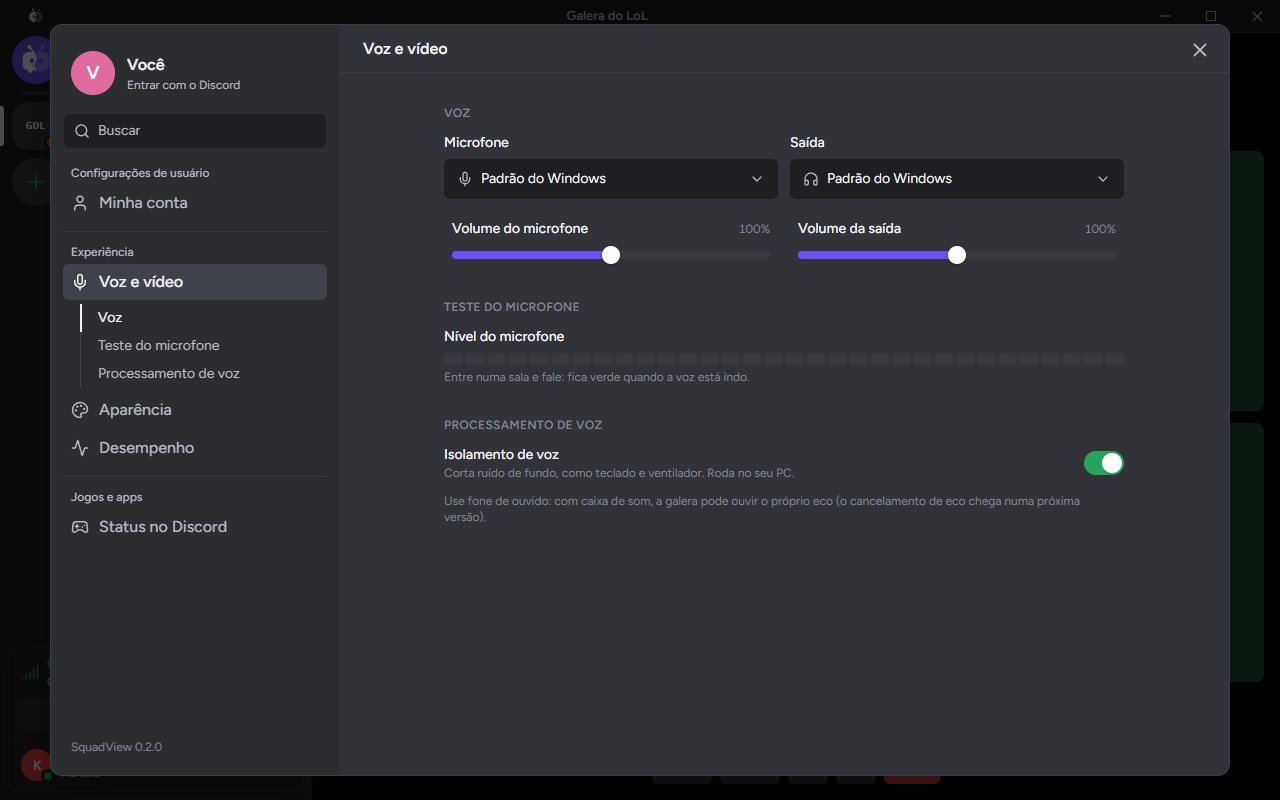
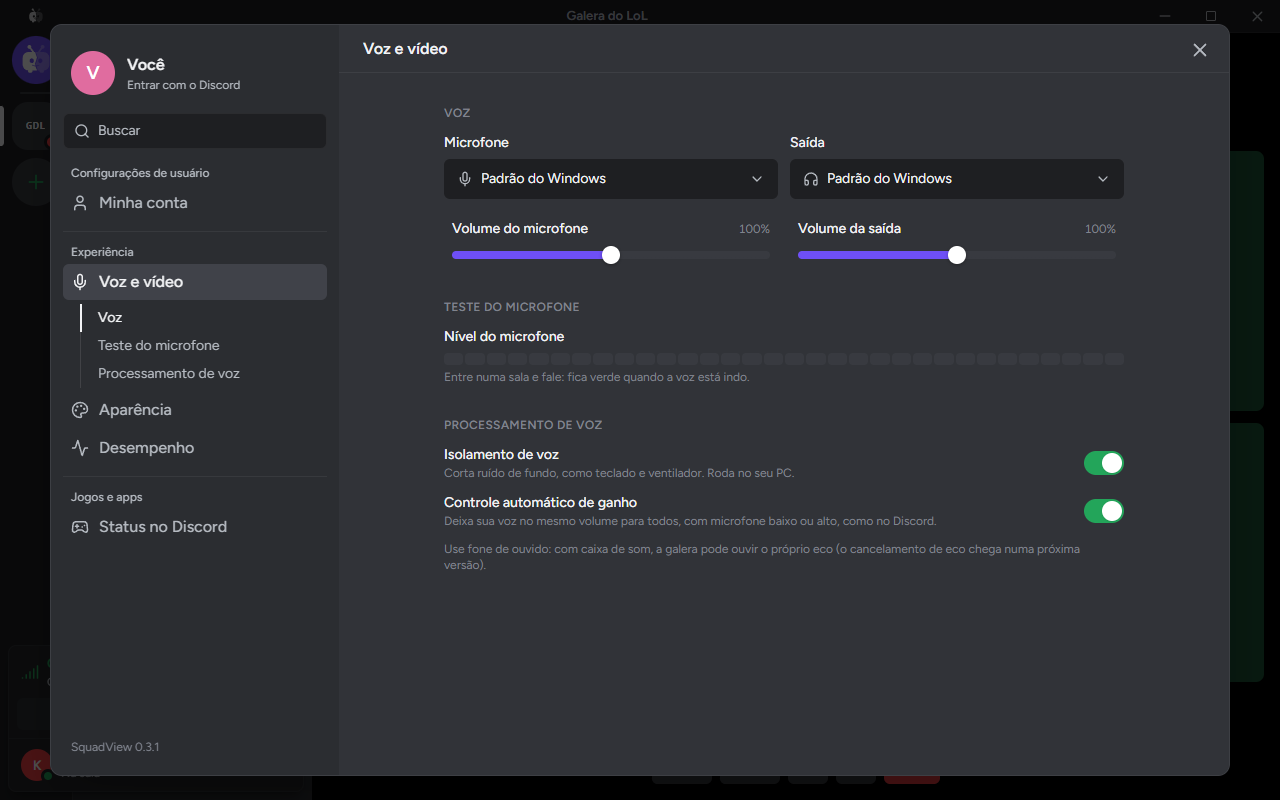
docs: README e site com a voz em foco, o ganho automático e a captura que segue o jogo (#19)

Changed region(s): [[0.3438, 0.625, 0.875, 0.6562], [0.3438, 0.6875, 0.375, 0.7188]]

diff --git a/site/index.html b/site/index.html
@@ -299,13 +299,18 @@
             </div>
             <div class="card">
               <div class="icon">🔊</div>
-              <h3>Só o som do jogo</h3>
-              <p>Transmitindo uma janela, vai só o áudio daquele app. Sua call continua só sua.</p>
+              <h3>Jogue do jeito que quiser</h3>
+              <p>
+                Tela cheia, janela ou sem bordas: o app segue o jogo do cliente para a partida, com só o som do jogo.
+              </p>
             </div>
             <div class="card">
               <div class="icon">🎙</div>
               <h3>Chat de voz na sala</h3>
-              <p>A sala é um canal de voz como o do Discord, com isolamento de ruído e volume por pessoa.</p>
+              <p>
+                A sala é um canal de voz como o do Discord: em foco, isolamento de ruído e volume no mesmo nível para
+                todos.
+              </p>
             </div>
             <div class="card">
               <div class="icon">👥</div>

diff --git a/apps/desktop/src/dev/demo.ts b/apps/desktop/src/dev/demo.ts
@@ -61,7 +61,7 @@ const THUMBS = [
 ];
 
 function click(label: string) {
-  const button = [...document.querySelectorAll("button")].find(
+  const button = [...document.querySelectorAll<HTMLElement>('button, [role="button"]')].find(
     (b) => b.textContent?.trim() === label || b.getAttribute("aria-label") === label,
   );
   button?.click();
@@ -109,6 +109,8 @@ export function runDemo(scene: string) {
     document
       .querySelector('[aria-label="Canal de voz"]')
       ?.dispatchEvent(new MouseEvent("mouseover", { bubbles: true, relatedTarget: document.body }));
+    // A sala com alguém em foco, como no Discord.
+    if (scene === "sala") click("Pôr Lobo em foco");
     if (scene === "transmitir") click("Transmitir minha tela");
     if (scene === "config") click("Configurações");
   }, 300);

diff --git a/README.md b/README.md
@@ -39,18 +39,19 @@
 
 ## ✨ O que ele faz
 
-**Já funciona (0.3)**
+**Já funciona**
 
 - **Qualidade de jogo.** Até 1440p ou a resolução da fonte, a 15, 30 ou 60 fps, tudo liberado. Encode por hardware na placa de vídeo (NVIDIA e AMD), e a imagem não sai da GPU, então o jogo quase não sente.
 - **Direto de PC para PC.** O vídeo não passa por servidor. As conexões são cifradas (QUIC com TLS 1.3).
-- **Só o áudio do jogo.** Transmitindo uma janela, vai só o som daquele app; o som da call fica de fora.
+- **Jogue do jeito que quiser.** Janela, sem bordas ou tela cheia: escolha o jogo uma vez e o app acompanha sozinho do cliente para a partida e de volta (LoL, Valorant e jogos com launcher). Nada é injetado no jogo, então é seguro com Vanguard, EAC e BattlEye.
+- **Só o áudio do jogo.** Transmitindo um jogo ou app, vai só o som dele, e o som acompanha quando o jogo troca de janela; o som da call fica de fora.
 - **Assista dentro do app**, como no Discord: o vídeo aparece na janela, com tela cheia, volume de até 200% e estatísticas (fps, bitrate, latência e ping).
-- **Chat de voz na sala.** A sala é um canal de voz: um quadro por pessoa, borda verde em quem fala, mudo e surdo, volume e silenciar por pessoa (só para você) e isolamento de voz contra ruído de teclado e ventilador. A voz também vai direto de PC para PC.
-- **Amigos.** Veja quem está online, numa sala ou transmitindo. Peça para entrar na sala de um amigo (qualquer pessoa da sala aceita), chame amigos para a sua e marque quem entra direto. Quem esteve numa sala com você aparece em Recentes, e de lá você manda o pedido.
+- **Chat de voz na sala.** A sala é um canal de voz como o do Discord: um quadro por pessoa, borda verde em quem fala, mudo e surdo, e clique num quadro para pôr a pessoa em foco. Volume e silenciar por pessoa (só para você), isolamento de voz contra teclado e ventilador e controle automático de ganho, para todo mundo chegar no mesmo volume. A voz também vai direto de PC para PC.
+- **Amigos.** Veja quem está online, numa sala ou transmitindo. Peça para entrar na sala de um amigo (qualquer pessoa da sala aceita), chame amigos para a sua e marque quem entra direto. Adicione direto pelo botão direito em quem está na sala com você, ou depois, em Recentes.
 - **Salas com nome e código.** Dê um nome à sala e mande o **link de convite**: quem tem o app entra direto, quem não tem cai na página de download.
 - **Integração com o Discord.** Entre com a sua conta: seu nome e sua foto aparecem para toda a sala. Mostre no seu perfil do Discord que está numa sala, transmitindo ou assistindo, com o botão "Entrar na sala" se quiser.
 - **Visual que você já conhece.** Interface na organização do Discord, com identidade própria, configurações por categoria e efeito de vidro ajustável.
-- **Instala e atualiza como o Discord.** Sem assistente: o instalador termina em segundos e já abre o app. Quando sai versão nova, um botão verde aparece na barra de título, e o app se atualiza sozinho, com pacotes assinados.
+- **Instala e atualiza como o Discord.** Sem assistente: o instalador termina em segundos e já abre o app. Quando sai versão nova, a setinha verde aparece na barra de título; um clique e o app se atualiza, com pacotes assinados. Se você estiver numa sala, ele volta sozinho para ela, e mostra as novidades da versão.
 - **Registro de desempenho só no seu PC.** Pode ser desligado; um botão copia os arquivos para você mandar a quem for ajudar.
 
 **Em breve**
@@ -62,7 +63,7 @@
 ## 📸 Telas
 
 <p align="center">
-  <img src="docs/images/tela-sala.png" alt="Sala do SquadView como canal de voz: um quadro por pessoa, um amigo ao vivo, um silenciado e os controles da voz embaixo" width="90%">
+  <img src="docs/images/tela-sala.png" alt="Sala do SquadView como canal de voz, com um amigo em foco no centro e os outros numa faixa embaixo, como no Discord" width="90%">
 </p>
 
 <p align="center">
@@ -72,7 +73,7 @@
 <p align="center">
   <img src="docs/images/tela-transmitir.png" alt="Modal Transmitir minha tela, com as janelas de jogos para escolher" width="45%">
   &nbsp;
-  <img src="docs/images/tela-config.png" alt="Configurações por categoria, como as do Discord: Voz e vídeo com microfone, saída, volumes e isolamento de voz" width="45%">
+  <img src="docs/images/tela-config.png" alt="Configurações por categoria, como as do Discord: Voz e vídeo com microfone, saída, volumes, isolamento de voz e controle automático de ganho" width="45%">
 </p>
 
 ## 🧠 Como funciona
@@ -121,6 +122,12 @@ Get-FileHash .\SquadView_x.y.z_x64-setup.exe
 <summary><b>Vai pesar no meu jogo?</b></summary>
 
 Muito pouco. A codificação é feita por um chip separado na placa de vídeo (NVENC), e a imagem não passa pelo processador. A meta do projeto é perder menos de 5% de FPS transmitindo em 1080p60, e cada versão é medida antes de sair.
+</details>
+
+<details>
+<summary><b>Jogo em tela cheia. Preciso mudar alguma coisa?</b></summary>
+
+Não. Janela, sem bordas ou tela cheia funcionam do mesmo jeito. Escolha o jogo (ou o cliente dele, como o do LoL) e o SquadView acompanha sozinho quando a partida abre em outra janela. Se o jogo entrar em tela cheia sem mandar imagem para a janela, o app passa a transmitir o monitor dele, e volta para a janela quando você sai da tela cheia.
 </details>
 
 <details>
